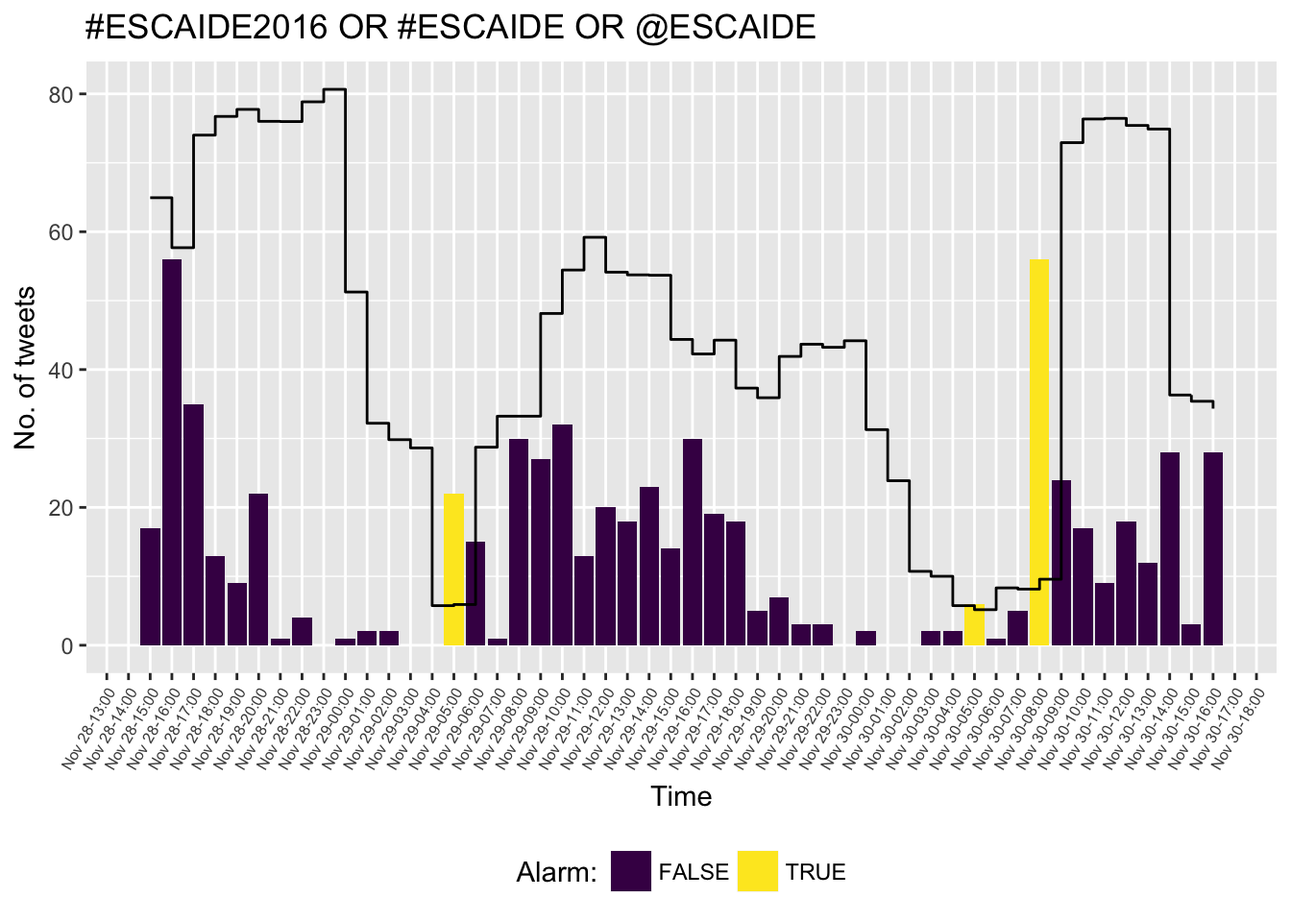
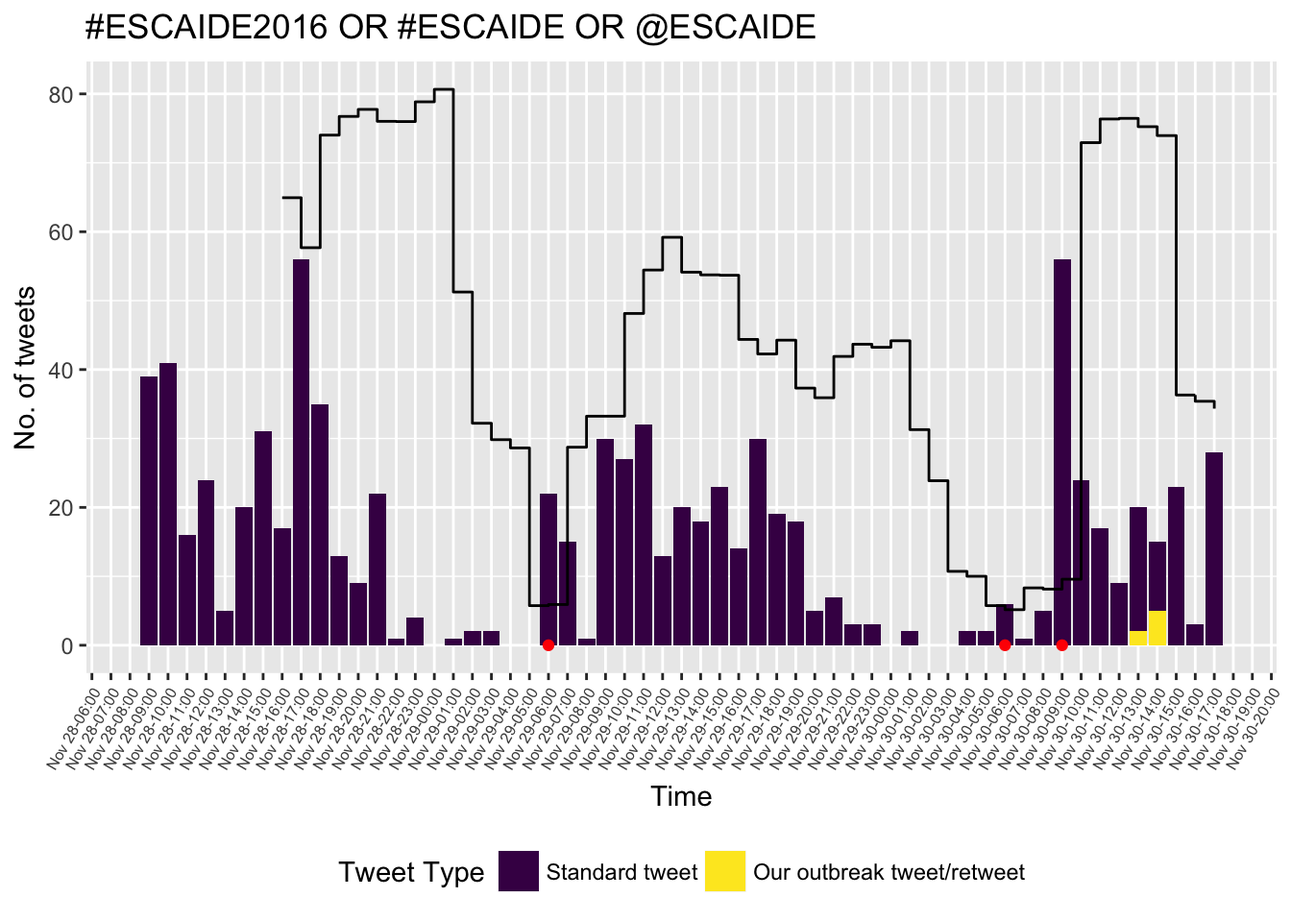
Update docs

Changed region(s): [[0.0312, 0.0625, 1.0, 0.8438], [0.25, 0.9062, 0.8125, 0.9688]]

diff --git a/docs/articles/sts-conversions.html b/docs/articles/sts-conversions.html
@@ -118,8 +118,8 @@ haxts &lt;-<span class="st"> </span><span class="kw">as.xts</span>(ha.sts)
 <p>Up to old <strong>xts</strong> 0.9-7, this will only plot the first time series Newer versions of <strong>xts</strong> are available from the <a href="https://github.com/joshuaulrich/xts"><strong>xts</strong> GitHub repository</a>.</p>
 <p>This also enables the use of the <a href="https://CRAN.R-project.org/package=dygraphs"><strong>dygraphs</strong></a> package for interactive visualization:</p>
 <div class="sourceCode"><pre class="sourceCode r"><code class="sourceCode r">dygraphs::<span class="kw">dygraph</span>(haxts)</code></pre></div>
-<div id="htmlwidget-07394da27a6eb4f22e37" style="width:100%;height:480px;" class="dygraphs html-widget"></div>
-<script type="application/json" data-for="htmlwidget-07394da27a6eb4f22e37">{"x":{"attrs":{"labels":["week","chwi","frkr","lich","mahe","mitt","neuk","pank","rein","span","zehl","scho","trko"],"legend":"auto","retainDateWindow":false,"axes":{"x":{"pixelsPerLabel":60}}},"scale":"weekly","annotations":[],"shadings":[],"events":[],"format":"date","data":[["2001-01-01T00:00:00.000Z","2001-01-08T00:00:00.000Z","2001-01-15T00:00:00.000Z","2001-01-22T00:00:00.000Z","2001-01-29T00:00:00.000Z","2001-02-05T00:00:00.000Z","2001-02-12T00:00:00.000Z","2001-02-19T00:00:00.000Z","2001-02-26T00:00:00.000Z","2001-03-05T00:00:00.000Z","2001-03-12T00:00:00.000Z","2001-03-19T00:00:00.000Z","2001-03-26T00:00:00.000Z","2001-04-02T00:00:00.000Z","2001-04-09T00:00:00.000Z","2001-04-16T00:00:00.000Z","2001-04-23T00:00:00.000Z","2001-04-30T00:00:00.000Z","2001-05-07T00:00:00.000Z","2001-05-14T00:00:00.000Z","2001-05-21T00:00:00.000Z","2001-05-28T00:00:00.000Z","2001-06-04T00:00:00.000Z","2001-06-11T00:00:00.000Z","2001-06-18T00:00:00.000Z","2001-06-25T00:00:00.000Z","2001-07-02T00:00:00.000Z","2001-07-09T00:00:00.000Z","2001-07-16T00:00:00.000Z","2001-07-23T00:00:00.000Z","2001-07-30T00:00:00.000Z","2001-08-06T00:00:00.000Z","2001-08-13T00:00:00.000Z","2001-08-20T00:00:00.000Z","2001-08-27T00:00:00.000Z","2001-09-03T00:00:00.000Z","2001-09-10T00:00:00.000Z","2001-09-17T00:00:00.000Z","2001-09-24T00:00:00.000Z","2001-10-01T00:00:00.000Z","2001-10-08T00:00:00.000Z","2001-10-15T00:00:00.000Z","2001-10-22T00:00:00.000Z","2001-10-29T00:00:00.000Z","2001-11-05T00:00:00.000Z","2001-11-12T00:00:00.000Z","2001-11-19T00:00:00.000Z","2001-11-26T00:00:00.000Z","2001-12-03T00:00:00.000Z","2001-12-10T00:00:00.000Z","2001-12-17T00:00:00.000Z","2001-12-24T00:00:00.000Z","2001-12-31T00:00:00.000Z","2002-01-07T00:00:00.000Z","2002-01-14T00:00:00.000Z","2002-01-21T00:00:00.000Z","2002-01-28T00:00:00.000Z","2002-02-04T00:00:00.000Z","2002-02-11T00:00:00.000Z","2002-02-18T00:00:00.000Z","2002-02-25T00:00:00.000Z","2002-03-04T00:00:00.000Z","2002-03-11T00:00:00.000Z","2002-03-18T00:00:00.000Z","2002-03-25T00:00:00.000Z","2002-04-01T00:00:00.000Z","2002-04-08T00:00:00.000Z","2002-04-15T00:00:00.000Z","2002-04-22T00:00:00.000Z","2002-04-29T00:00:00.000Z","2002-05-06T00:00:00.000Z","2002-05-13T00:00:00.000Z","2002-05-20T00:00:00.000Z","2002-05-27T00:00:00.000Z","2002-06-03T00:00:00.000Z","2002-06-10T00:00:00.000Z","2002-06-17T00:00:00.000Z","2002-06-24T00:00:00.000Z","2002-07-01T00:00:00.000Z","2002-07-08T00:00:00.000Z","2002-07-15T00:00:00.000Z","2002-07-22T00:00:00.000Z","2002-07-29T00:00:00.000Z","2002-08-05T00:00:00.000Z","2002-08-12T00:00:00.000Z","2002-08-19T00:00:00.000Z","2002-08-26T00:00:00.000Z","2002-09-02T00:00:00.000Z","2002-09-09T00:00:00.000Z","2002-09-16T00:00:00.000Z","2002-09-23T00:00:00.000Z","2002-09-30T00:00:00.000Z","2002-10-07T00:00:00.000Z","2002-10-14T00:00:00.000Z","2002-10-21T00:00:00.000Z","2002-10-28T00:00:00.000Z","2002-11-04T00:00:00.000Z","2002-11-11T00:00:00.000Z","2002-11-18T00:00:00.000Z","2002-11-25T00:00:00.000Z","2002-12-02T00:00:00.000Z","2002-12-09T00:00:00.000Z","2002-12-16T00:00:00.000Z","2002-12-23T00:00:00.000Z","2002-12-30T00:00:00.000Z","2003-01-06T00:00:00.000Z","2003-01-13T00:00:00.000Z","2003-01-20T00:00:00.000Z","2003-01-27T00:00:00.000Z","2003-02-03T00:00:00.000Z","2003-02-10T00:00:00.000Z","2003-02-17T00:00:00.000Z","2003-02-24T00:00:00.000Z","2003-03-03T00:00:00.000Z","2003-03-10T00:00:00.000Z","2003-03-17T00:00:00.000Z","2003-03-24T00:00:00.000Z","2003-03-31T00:00:00.000Z","2003-04-07T00:00:00.000Z","2003-04-14T00:00:00.000Z","2003-04-21T00:00:00.000Z","2003-04-28T00:00:00.000Z","2003-05-05T00:00:00.000Z","2003-05-12T00:00:00.000Z","2003-05-19T00:00:00.000Z","2003-05-26T00:00:00.000Z","2003-06-02T00:00:00.000Z","2003-06-09T00:00:00.000Z","2003-06-16T00:00:00.000Z","2003-06-23T00:00:00.000Z","2003-06-30T00:00:00.000Z","2003-07-07T00:00:00.000Z","2003-07-14T00:00:00.000Z","2003-07-21T00:00:00.000Z","2003-07-28T00:00:00.000Z","2003-08-04T00:00:00.000Z","2003-08-11T00:00:00.000Z","2003-08-18T00:00:00.000Z","2003-08-25T00:00:00.000Z","2003-09-01T00:00:00.000Z","2003-09-08T00:00:00.000Z","2003-09-15T00:00:00.000Z","2003-09-22T00:00:00.000Z","2003-09-29T00:00:00.000Z","2003-10-06T00:00:00.000Z","2003-10-13T00:00:00.000Z","2003-10-20T00:00:00.000Z","2003-10-27T00:00:00.000Z","2003-11-03T00:00:00.000Z","2003-11-10T00:00:00.000Z","2003-11-17T00:00:00.000Z","2003-11-24T00:00:00.000Z","2003-12-01T00:00:00.000Z","2003-12-08T00:00:00.000Z","2003-12-15T00:00:00.000Z","2003-12-22T00:00:00.000Z","2003-12-29T00:00:00.000Z","2004-01-05T00:00:00.000Z","2004-01-12T00:00:00.000Z","2004-01-19T00:00:00.000Z","2004-01-26T00:00:00.000Z","2004-02-02T00:00:00.000Z","2004-02-09T00:00:00.000Z","2004-02-16T00:00:00.000Z","2004-02-23T00:00:00.000Z","2004-03-01T00:00:00.000Z","2004-03-08T00:00:00.000Z","2004-03-15T00:00:00.000Z","2004-03-22T00:00:00.000Z","2004-03-29T00:00:00.000Z","2004-04-05T00:00:00.000Z","2004-04-12T00:00:00.000Z","2004-04-19T00:00:00.000Z","2004-04-26T00:00:00.000Z","2004-05-03T00:00:00.000Z","2004-05-10T00:00:00.000Z","2004-05-17T00:00:00.000Z","2004-05-24T00:00:00.000Z","2004-05-31T00:00:00.000Z","2004-06-07T00:00:00.000Z","2004-06-14T00:00:00.000Z","2004-06-21T00:00:00.000Z","2004-06-28T00:00:00.000Z","2004-07-05T00:00:00.000Z","2004-07-12T00:00:00.000Z","2004-07-19T00:00:00.000Z","2004-07-26T00:00:00.000Z","2004-08-02T00:00:00.000Z","2004-08-09T00:00:00.000Z","2004-08-16T00:00:00.000Z","2004-08-23T00:00:00.000Z","2004-08-30T00:00:00.000Z","2004-09-06T00:00:00.000Z","2004-09-13T00:00:00.000Z","2004-09-20T00:00:00.000Z","2004-09-27T00:00:00.000Z","2004-10-04T00:00:00.000Z","2004-10-11T00:00:00.000Z","2004-10-18T00:00:00.000Z","2004-10-25T00:00:00.000Z","2004-11-01T00:00:00.000Z","2004-11-08T00:00:00.000Z","2004-11-15T00:00:00.000Z","2004-11-22T00:00:00.000Z","2004-11-29T00:00:00.000Z","2004-12-06T00:00:00.000Z","2004-12-13T00:00:00.000Z","2004-12-20T00:00:00.000Z","2004-12-27T00:00:00.000Z","2005-01-03T00:00:00.000Z","2005-01-10T00:00:00.000Z","2005-01-17T00:00:00.000Z","2005-01-24T00:00:00.000Z","2005-01-31T00:00:00.000Z","2005-02-07T00:00:00.000Z","2005-02-14T00:00:00.000Z","2005-02-21T00:00:00.000Z","2005-02-28T00:00:00.000Z","2005-03-07T00:00:00.000Z","2005-03-14T00:00:00.000Z","2005-03-21T00:00:00.000Z","2005-03-28T00:00:00.000Z","2005-04-04T00:00:00.000Z","2005-04-11T00:00:00.000Z","2005-04-18T00:00:00.000Z","2005-04-25T00:00:00.000Z","2005-05-02T00:00:00.000Z","2005-05-09T00:00:00.000Z","2005-05-16T00:00:00.000Z","2005-05-23T00:00:00.000Z","2005-05-30T00:00:00.000Z","2005-06-06T00:00:00.000Z","2005-06-13T00:00:00.000Z","2005-06-20T00:00:00.000Z","2005-06-27T00:00:00.000Z","2005-07-04T00:00:00.000Z","2005-07-11T00:00:00.000Z","2005-07-18T00:00:00.000Z","2005-07-25T00:00:00.000Z","2005-08-01T00:00:00.000Z","2005-08-08T00:00:00.000Z","2005-08-15T00:00:00.000Z","2005-08-22T00:00:00.000Z","2005-08-29T00:00:00.000Z","2005-09-05T00:00:00.000Z","2005-09-12T00:00:00.000Z","2005-09-19T00:00:00.000Z","2005-09-26T00:00:00.000Z","2005-10-03T00:00:00.000Z","2005-10-10T00:00:00.000Z","2005-10-17T00:00:00.000Z","2005-10-24T00:00:00.000Z","2005-10-31T00:00:00.000Z","2005-11-07T00:00:00.000Z","2005-11-14T00:00:00.000Z","2005-11-21T00:00:00.000Z","2005-11-28T00:00:00.000Z","2005-12-05T00:00:00.000Z","2005-12-12T00:00:00.000Z","2005-12-19T00:00:00.000Z","2005-12-26T00:00:00.000Z","2006-01-02T00:00:00.000Z","2006-01-09T00:00:00.000Z","2006-01-16T00:00:00.000Z","2006-01-23T00:00:00.000Z","2006-01-30T00:00:00.000Z","2006-02-06T00:00:00.000Z","2006-02-13T00:00:00.000Z","2006-02-20T00:00:00.000Z","2006-02-27T00:00:00.000Z","2006-03-06T00:00:00.000Z","2006-03-13T00:00:00.000Z","2006-03-20T00:00:00.000Z","2006-03-27T00:00:00.000Z","2006-04-03T00:00:00.000Z","2006-04-10T00:00:00.000Z","2006-04-17T00:00:00.000Z","2006-04-24T00:00:00.000Z","2006-05-01T00:00:00.000Z","2006-05-08T00:00:00.000Z","2006-05-15T00:00:00.000Z","2006-05-22T00:00:00.000Z","2006-05-29T00:00:00.000Z","2006-06-05T00:00:00.000Z","2006-06-12T00:00:00.000Z","2006-06-19T00:00:00.000Z","2006-06-26T00:00:00.000Z","2006-07-03T00:00:00.000Z","2006-07-10T00:00:00.000Z","2006-07-17T00:00:00.000Z"],[0,0,0,0,0,0,0,0,0,1,0,1,1,0,1,0,1,0,0,0,0,1,0,0,0,0,0,0,0,0,0,0,1,0,0,0,1,0,0,0,1,0,1,0,0,0,0,0,0,1,1,0,2,0,0,0,1,1,0,0,0,0,0,0,0,0,0,0,0,0,0,0,0,0,0,0,0,0,0,0,1,1,0,0,1,1,0,0,0,0,0,0,0,0,0,0,0,0,0,0,0,0,0,0,0,1,0,0,0,0,0,0,0,0,0,0,1,0,0,0,0,0,0,0,0,0,0,0,0,0,0,0,0,0,0,0,0,0,0,0,0,0,1,0,0,0,0,0,0,0,0,0,0,1,0,0,0,0,0,0,0,0,0,0,0,0,0,0,0,0,0,0,0,0,0,0,0,0,0,0,0,0,0,0,0,0,0,0,1,1,0,0,0,0,0,0,0,1,0,0,0,0,0,0,0,0,0,0,1,0,0,0,1,0,0,0,0,0,0,0,0,0,0,0,0,0,0,0,0,0,1,0,0,0,0,0,0,0,0,0,0,0,0,0,0,0,0,0,0,0,0,0,0,0,1,0,0,0,0,0,0,0,0,0,0,0,0,1,0,0,0,0,0,0,0,0,1,0,1,0,0,0,0,0,0,0,0,0,0,0],[0,0,0,0,0,0,0,0,0,0,0,0,1,1,0,0,0,0,0,1,0,0,0,0,1,0,0,0,0,0,0,0,0,0,0,0,0,0,0,1,0,0,0,0,0,0,0,0,1,0,0,0,0,0,0,1,0,0,0,0,0,0,0,0,0,0,1,0,0,0,0,1,0,0,0,0,0,0,0,0,0,0,0,0,0,0,0,0,0,1,1,1,1,0,0,0,0,0,0,0,0,0,0,0,0,0,0,0,0,0,0,0,0,0,0,0,0,0,0,0,0,0,0,0,1,0,0,0,0,0,0,0,0,1,0,0,0,0,0,0,0,0,0,0,0,0,0,0,1,0,0,0,0,0,0,0,0,0,0,0,0,0,0,1,0,0,0,0,1,0,0,0,0,0,0,0,0,0,0,0,0,0,0,1,0,0,0,0,0,0,0,0,0,0,0,0,0,1,1,0,0,0,0,0,0,0,0,0,0,0,0,0,0,0,0,0,1,0,0,0,0,0,0,0,0,1,0,0,0,0,0,0,0,1,0,0,0,0,0,0,0,0,0,0,0,0,1,0,0,0,0,0,0,0,0,0,0,0,0,0,0,0,0,0,0,0,1,0,0,0,0,0,0,0,0,0,1,0,0,0,0,0,0,0,0,1,1,0,0,0],[0,0,0,0,0,0,0,0,0,0,0,0,0,0,1,0,0,0,0,0,0,0,0,0,0,0,0,0,0,0,0,0,0,0,0,0,0,0,0,0,0,0,0,0,0,0,0,0,0,0,0,0,0,0,0,0,0,0,0,0,0,0,0,0,0,0,0,0,0,0,0,0,0,0,0,0,0,0,0,0,0,0,0,0,0,0,0,0,0,0,0,0,0,0,0,0,0,0,0,0,0,0,0,0,0,0,0,0,0,0,0,0,0,0,0,0,0,0,0,1,0,0,0,0,0,0,0,0,0,0,0,0,0,0,0,0,0,0,0,0,0,0,0,1,0,0,0,0,0,0,0,0,0,0,0,0,0,0,0,0,0,0,0,0,0,0,1,0,0,0,0,0,0,0,0,0,0,0,0,0,0,0,0,0,0,0,0,0,0,0,0,0,0,0,0,0,0,0,0,0,0,0,0,0,0,0,0,0,0,0,0,0,0,0,0,0,0,0,0,0,0,0,0,0,0,0,0,0,0,0,0,0,0,0,0,0,0,0,0,0,0,0,0,0,0,0,0,0,0,0,0,0,0,0,0,0,0,0,0,0,0,0,0,0,0,0,0,0,0,1,0,0,0,0,0,0,0,0,1,2,0,0,0,0,0,1,0,0,0,0],[0,0,0,0,0,0,0,0,0,0,0,0,0,0,0,0,0,0,0,0,0,0,0,0,0,0,0,0,0,0,0,0,1,0,0,0,0,0,0,0,0,0,0,0,0,0,0,0,0,0,0,0,0,0,0,0,0,0,0,0,0,0,0,0,0,0,0,0,0,0,0,0,0,0,0,0,0,0,0,0,0,0,0,0,0,0,0,0,0,0,0,0,0,0,0,0,1,0,0,0,0,0,0,0,0,0,0,0,1,0,0,0,0,0,0,0,0,0,0,0,1,0,0,0,0,0,0,0,0,0,0,0,0,0,0,0,0,0,0,0,0,0,0,0,0,0,0,0,0,0,0,0,0,0,0,0,0,0,0,0,0,0,0,0,0,0,0,0,0,0,0,0,0,0,0,0,0,0,0,0,0,0,0,0,0,0,0,0,0,1,0,0,0,0,0,0,0,0,0,0,0,0,0,0,0,0,0,0,0,0,0,0,0,0,0,0,0,0,0,0,0,0,0,0,0,0,0,0,0,0,0,0,0,0,0,0,0,0,0,0,0,0,0,0,0,0,0,0,0,0,0,0,0,0,0,0,0,0,0,0,0,0,0,0,0,0,0,0,0,0,0,0,0,0,0,0,0,0,0,0,0,0,0,0,0,0,0,1,0,0],[0,0,0,0,0,0,2,0,1,1,1,0,0,0,0,0,0,0,2,0,0,1,0,0,0,1,1,0,0,0,0,1,0,0,0,0,0,0,2,0,0,0,0,0,0,0,0,0,0,0,0,0,0,0,0,0,1,0,0,0,0,0,0,0,0,0,0,0,1,0,0,0,0,0,0,0,0,0,0,0,0,0,0,0,0,0,0,0,0,0,1,0,1,0,0,0,0,0,0,0,0,0,1,0,0,0,0,0,0,0,0,0,0,0,0,0,0,0,0,0,0,0,0,0,0,0,0,0,0,0,0,0,0,1,0,0,0,0,0,0,0,1,0,0,0,1,0,0,0,0,0,0,0,0,0,1,0,0,1,0,2,0,0,0,0,0,0,1,0,0,0,0,0,1,0,0,0,0,1,0,1,0,0,0,0,0,0,0,0,1,0,0,1,0,0,0,0,0,0,1,0,0,1,0,0,0,0,0,1,0,0,0,0,0,0,0,0,0,0,0,0,0,0,0,0,0,0,0,0,0,0,0,0,0,0,0,0,0,0,0,0,0,0,0,0,0,0,0,0,0,0,0,0,0,0,0,0,0,0,0,0,0,0,0,0,0,0,0,0,0,0,0,0,0,0,0,0,0,0,0,0,1,0,0,0,1,3,0,0,0],[0,0,1,0,0,1,1,0,0,0,0,0,0,1,0,0,0,0,0,1,0,1,0,0,0,0,1,0,0,0,0,0,0,0,0,0,0,0,0,0,0,0,0,0,1,0,0,0,0,0,0,0,0,0,0,0,0,0,0,0,0,0,0,0,0,0,0,0,0,0,0,0,0,0,0,0,0,0,0,0,0,0,0,0,1,0,0,0,0,0,0,0,0,0,0,0,0,0,0,0,0,0,0,0,0,0,0,0,0,0,0,0,0,0,0,0,0,0,0,0,2,0,0,0,0,0,0,0,0,0,0,0,0,0,0,0,0,0,0,0,0,0,0,0,0,0,0,0,0,0,0,0,0,0,0,0,0,0,1,0,0,0,0,0,0,0,2,0,0,1,0,0,0,0,0,0,0,0,1,0,0,0,0,0,0,0,0,0,0,0,0,0,0,0,0,0,0,0,0,0,0,0,0,1,0,0,0,0,0,0,0,0,0,0,0,0,0,0,0,0,0,0,0,0,0,0,0,0,1,0,0,0,0,0,0,0,0,0,0,0,0,0,0,0,0,0,0,0,0,0,0,0,0,0,0,0,0,0,0,1,0,0,0,0,0,0,0,0,0,0,0,0,1,0,0,0,0,0,0,0,0,0,1,0,0,1,0,0,1,1],[0,0,0,0,0,1,0,0,0,0,0,1,0,1,0,2,0,1,0,0,0,0,0,0,2,0,0,0,1,0,0,1,1,0,1,0,0,0,0,0,0,0,1,0,0,0,0,0,0,0,0,0,0,0,0,0,0,0,0,0,0,0,0,0,0,0,0,0,0,0,0,0,0,0,0,0,0,2,0,0,0,0,0,0,0,0,0,0,0,0,1,0,0,0,0,0,1,0,1,0,0,0,0,0,0,0,0,0,0,0,0,1,0,0,0,0,0,0,0,0,0,0,0,0,0,0,0,0,0,0,0,0,0,0,0,0,0,0,0,0,1,0,0,1,0,0,0,0,1,0,0,0,1,1,1,0,1,1,0,0,0,0,0,0,1,2,0,0,0,0,0,0,0,0,0,0,0,0,0,0,0,1,0,0,0,0,0,0,0,0,0,0,0,0,0,0,0,0,1,1,0,0,0,0,0,0,0,0,0,1,0,0,0,0,0,0,0,0,0,0,0,0,0,0,0,0,0,0,1,0,0,0,1,0,0,0,0,0,0,0,0,0,0,0,0,0,0,0,0,0,0,0,1,0,0,0,0,0,0,0,0,0,0,0,0,0,0,0,0,0,0,0,0,0,0,0,0,0,0,0,1,1,0,1,0,2,1,3,0,0],[0,0,0,0,2,1,0,0,0,0,0,0,0,0,0,0,0,1,0,0,0,1,0,0,0,0,0,0,0,0,1,0,0,0,0,0,0,0,0,0,0,0,0,0,0,0,0,0,0,0,0,0,1,0,0,0,0,0,0,0,0,0,0,0,0,0,0,0,0,0,0,0,0,0,0,0,0,0,0,0,0,0,0,0,0,0,0,0,0,0,0,0,0,0,0,0,0,0,0,0,0,0,0,0,0,0,0,0,0,0,0,0,0,0,0,1,0,0,0,0,0,0,0,0,0,0,0,0,0,0,0,0,0,0,0,0,0,0,0,1,0,0,0,0,1,0,0,0,0,0,0,0,0,0,0,0,0,0,0,0,0,0,0,0,0,0,0,0,0,0,0,0,0,0,0,0,0,0,0,0,0,0,0,1,0,0,0,0,0,0,0,0,0,0,0,1,0,0,0,0,0,0,0,0,0,0,0,0,0,2,0,0,0,0,0,0,0,0,0,0,0,0,0,0,0,0,0,0,0,0,0,0,0,0,0,0,0,0,0,0,0,0,0,0,0,0,0,0,0,0,1,0,0,0,0,0,0,0,0,0,0,0,0,1,0,0,0,0,0,0,0,0,0,0,0,0,1,0,0,0,0,1,0,1,0,0,0,0,0,0],[0,0,0,0,0,0,0,0,0,0,0,0,0,0,0,0,0,0,0,0,0,0,0,0,0,0,0,0,0,0,0,0,0,0,0,0,0,0,0,0,0,0,0,0,0,0,0,1,0,0,0,0,0,0,0,0,0,0,1,0,0,0,0,0,0,0,0,0,0,0,0,0,0,0,1,0,0,0,0,0,0,0,0,0,0,0,0,0,0,0,1,0,0,0,0,0,0,0,0,0,0,0,0,0,0,0,0,0,0,0,0,0,0,0,0,0,0,0,0,1,0,0,0,1,0,0,0,0,0,0,0,0,0,0,0,0,0,0,0,0,0,0,0,0,0,0,0,0,0,0,0,0,0,0,0,0,0,0,0,0,0,0,0,0,0,0,0,0,0,0,0,0,0,0,0,0,0,0,0,0,0,0,0,0,0,0,0,0,0,0,0,0,0,0,0,1,0,0,0,1,0,0,1,1,0,0,0,0,0,0,1,0,0,0,0,0,0,0,0,0,0,0,0,0,0,0,0,1,0,0,0,0,0,0,0,0,0,0,0,0,0,0,0,0,0,0,0,0,0,0,0,0,0,0,0,0,0,0,0,0,0,0,0,0,0,0,0,0,0,0,0,0,0,0,0,0,0,0,0,0,0,0,0,0,0,0,0,0,0,0],[0,0,0,0,0,0,0,0,0,0,0,0,0,0,0,0,0,1,0,0,0,0,1,0,0,0,0,0,0,0,0,1,0,0,0,0,0,0,2,0,0,0,0,0,0,0,0,0,0,0,0,0,0,0,0,0,0,0,0,0,0,0,0,0,0,0,0,0,0,0,0,0,0,0,0,0,0,0,0,0,0,2,0,0,0,1,0,1,0,0,0,0,0,1,0,0,0,0,0,0,0,0,0,0,0,0,0,0,1,0,0,0,1,0,1,0,0,0,0,0,0,0,0,0,0,0,0,0,1,0,0,0,0,0,0,0,0,0,0,0,0,0,0,0,0,1,0,0,0,0,0,0,0,0,0,0,0,0,0,1,0,0,0,0,0,0,0,0,0,0,0,0,0,0,0,0,0,0,0,0,0,0,0,0,0,0,0,0,0,0,0,0,0,0,0,0,0,0,0,0,0,1,0,0,0,0,0,0,0,0,0,0,0,0,0,0,0,0,0,0,0,0,0,0,0,0,0,0,0,0,0,0,0,0,0,0,0,0,0,0,0,0,0,0,0,0,0,0,0,0,0,0,0,0,0,0,0,0,0,0,0,0,0,0,0,0,0,0,0,0,1,0,0,0,0,0,0,0,0,0,0,0,0,1,0,0,0,0,0,0],[0,0,0,0,0,0,0,0,0,0,1,1,0,0,0,2,0,2,0,1,0,0,0,1,1,1,1,0,0,0,0,0,0,1,1,0,0,1,0,0,0,0,1,1,1,0,0,0,0,0,1,0,0,0,0,0,1,0,0,0,0,0,0,0,0,0,0,0,0,1,0,0,0,0,0,0,0,0,0,0,0,1,0,0,0,0,0,0,0,0,0,0,0,0,1,0,0,0,0,0,1,0,0,0,1,0,0,0,0,0,0,0,0,0,0,0,0,0,0,0,0,0,0,1,0,0,0,0,0,0,0,0,0,1,0,0,0,0,0,0,0,0,0,0,0,0,1,0,0,2,1,0,0,0,0,0,0,0,0,0,0,0,0,0,0,0,0,0,0,0,0,0,0,0,0,0,0,0,0,0,0,0,1,0,0,0,1,0,0,0,0,0,0,0,1,1,0,0,0,0,0,1,0,0,0,0,1,1,0,0,0,0,0,1,0,0,1,0,0,0,0,0,1,0,0,0,0,0,0,0,0,0,0,0,0,0,0,0,0,0,0,0,0,0,0,0,0,0,0,0,0,1,0,0,0,0,0,0,0,0,0,0,0,0,0,0,0,0,0,0,0,1,1,0,1,1,0,1,1,1,0,0,0,0,1,0,0,0,1,0],[0,0,0,0,0,0,0,0,0,0,0,0,0,0,0,0,0,0,0,0,0,0,0,0,0,0,0,0,0,0,0,0,0,0,0,0,0,0,0,0,0,0,0,0,0,0,0,0,1,0,0,0,0,0,0,0,0,0,0,0,0,0,0,0,0,0,0,0,0,0,0,0,0,0,0,0,0,0,0,0,0,0,0,0,0,0,0,0,0,0,0,0,0,0,0,0,0,0,0,0,0,0,0,0,0,0,0,0,0,0,0,0,0,0,0,0,0,0,0,0,0,0,0,0,0,0,0,0,0,0,0,0,0,0,0,0,0,0,0,0,0,0,0,0,0,0,0,0,0,0,0,0,0,0,0,0,0,0,0,0,0,0,0,0,0,0,0,0,0,0,0,0,0,0,0,0,0,0,0,0,0,0,0,1,0,0,0,0,0,0,0,0,0,0,0,0,0,0,0,0,0,0,0,0,0,0,0,0,0,0,0,0,0,0,0,0,0,0,0,0,0,0,0,0,0,1,0,0,0,1,0,0,0,0,0,0,0,0,0,0,0,0,0,0,0,0,0,1,0,0,0,0,0,0,0,0,0,0,0,0,0,0,0,0,0,0,0,0,0,0,0,0,0,0,0,0,0,1,0,0,0,0,0,0,0,0,0,0,0,1]]},"evals":[],"jsHooks":[]}</script></div>
+<div id="htmlwidget-b5df02e3ff805bc695a2" style="width:100%;height:480px;" class="dygraphs html-widget"></div>
+<script type="application/json" data-for="htmlwidget-b5df02e3ff805bc695a2">{"x":{"attrs":{"labels":["week","chwi","frkr","lich","mahe","mitt","neuk","pank","rein","span","zehl","scho","trko"],"legend":"auto","retainDateWindow":false,"axes":{"x":{"pixelsPerLabel":60}}},"scale":"weekly","annotations":[],"shadings":[],"events":[],"format":"date","data":[["2001-01-01T00:00:00.000Z","2001-01-08T00:00:00.000Z","2001-01-15T00:00:00.000Z","2001-01-22T00:00:00.000Z","2001-01-29T00:00:00.000Z","2001-02-05T00:00:00.000Z","2001-02-12T00:00:00.000Z","2001-02-19T00:00:00.000Z","2001-02-26T00:00:00.000Z","2001-03-05T00:00:00.000Z","2001-03-12T00:00:00.000Z","2001-03-19T00:00:00.000Z","2001-03-26T00:00:00.000Z","2001-04-02T00:00:00.000Z","2001-04-09T00:00:00.000Z","2001-04-16T00:00:00.000Z","2001-04-23T00:00:00.000Z","2001-04-30T00:00:00.000Z","2001-05-07T00:00:00.000Z","2001-05-14T00:00:00.000Z","2001-05-21T00:00:00.000Z","2001-05-28T00:00:00.000Z","2001-06-04T00:00:00.000Z","2001-06-11T00:00:00.000Z","2001-06-18T00:00:00.000Z","2001-06-25T00:00:00.000Z","2001-07-02T00:00:00.000Z","2001-07-09T00:00:00.000Z","2001-07-16T00:00:00.000Z","2001-07-23T00:00:00.000Z","2001-07-30T00:00:00.000Z","2001-08-06T00:00:00.000Z","2001-08-13T00:00:00.000Z","2001-08-20T00:00:00.000Z","2001-08-27T00:00:00.000Z","2001-09-03T00:00:00.000Z","2001-09-10T00:00:00.000Z","2001-09-17T00:00:00.000Z","2001-09-24T00:00:00.000Z","2001-10-01T00:00:00.000Z","2001-10-08T00:00:00.000Z","2001-10-15T00:00:00.000Z","2001-10-22T00:00:00.000Z","2001-10-29T00:00:00.000Z","2001-11-05T00:00:00.000Z","2001-11-12T00:00:00.000Z","2001-11-19T00:00:00.000Z","2001-11-26T00:00:00.000Z","2001-12-03T00:00:00.000Z","2001-12-10T00:00:00.000Z","2001-12-17T00:00:00.000Z","2001-12-24T00:00:00.000Z","2001-12-31T00:00:00.000Z","2002-01-07T00:00:00.000Z","2002-01-14T00:00:00.000Z","2002-01-21T00:00:00.000Z","2002-01-28T00:00:00.000Z","2002-02-04T00:00:00.000Z","2002-02-11T00:00:00.000Z","2002-02-18T00:00:00.000Z","2002-02-25T00:00:00.000Z","2002-03-04T00:00:00.000Z","2002-03-11T00:00:00.000Z","2002-03-18T00:00:00.000Z","2002-03-25T00:00:00.000Z","2002-04-01T00:00:00.000Z","2002-04-08T00:00:00.000Z","2002-04-15T00:00:00.000Z","2002-04-22T00:00:00.000Z","2002-04-29T00:00:00.000Z","2002-05-06T00:00:00.000Z","2002-05-13T00:00:00.000Z","2002-05-20T00:00:00.000Z","2002-05-27T00:00:00.000Z","2002-06-03T00:00:00.000Z","2002-06-10T00:00:00.000Z","2002-06-17T00:00:00.000Z","2002-06-24T00:00:00.000Z","2002-07-01T00:00:00.000Z","2002-07-08T00:00:00.000Z","2002-07-15T00:00:00.000Z","2002-07-22T00:00:00.000Z","2002-07-29T00:00:00.000Z","2002-08-05T00:00:00.000Z","2002-08-12T00:00:00.000Z","2002-08-19T00:00:00.000Z","2002-08-26T00:00:00.000Z","2002-09-02T00:00:00.000Z","2002-09-09T00:00:00.000Z","2002-09-16T00:00:00.000Z","2002-09-23T00:00:00.000Z","2002-09-30T00:00:00.000Z","2002-10-07T00:00:00.000Z","2002-10-14T00:00:00.000Z","2002-10-21T00:00:00.000Z","2002-10-28T00:00:00.000Z","2002-11-04T00:00:00.000Z","2002-11-11T00:00:00.000Z","2002-11-18T00:00:00.000Z","2002-11-25T00:00:00.000Z","2002-12-02T00:00:00.000Z","2002-12-09T00:00:00.000Z","2002-12-16T00:00:00.000Z","2002-12-23T00:00:00.000Z","2002-12-30T00:00:00.000Z","2003-01-06T00:00:00.000Z","2003-01-13T00:00:00.000Z","2003-01-20T00:00:00.000Z","2003-01-27T00:00:00.000Z","2003-02-03T00:00:00.000Z","2003-02-10T00:00:00.000Z","2003-02-17T00:00:00.000Z","2003-02-24T00:00:00.000Z","2003-03-03T00:00:00.000Z","2003-03-10T00:00:00.000Z","2003-03-17T00:00:00.000Z","2003-03-24T00:00:00.000Z","2003-03-31T00:00:00.000Z","2003-04-07T00:00:00.000Z","2003-04-14T00:00:00.000Z","2003-04-21T00:00:00.000Z","2003-04-28T00:00:00.000Z","2003-05-05T00:00:00.000Z","2003-05-12T00:00:00.000Z","2003-05-19T00:00:00.000Z","2003-05-26T00:00:00.000Z","2003-06-02T00:00:00.000Z","2003-06-09T00:00:00.000Z","2003-06-16T00:00:00.000Z","2003-06-23T00:00:00.000Z","2003-06-30T00:00:00.000Z","2003-07-07T00:00:00.000Z","2003-07-14T00:00:00.000Z","2003-07-21T00:00:00.000Z","2003-07-28T00:00:00.000Z","2003-08-04T00:00:00.000Z","2003-08-11T00:00:00.000Z","2003-08-18T00:00:00.000Z","2003-08-25T00:00:00.000Z","2003-09-01T00:00:00.000Z","2003-09-08T00:00:00.000Z","2003-09-15T00:00:00.000Z","2003-09-22T00:00:00.000Z","2003-09-29T00:00:00.000Z","2003-10-06T00:00:00.000Z","2003-10-13T00:00:00.000Z","2003-10-20T00:00:00.000Z","2003-10-27T00:00:00.000Z","2003-11-03T00:00:00.000Z","2003-11-10T00:00:00.000Z","2003-11-17T00:00:00.000Z","2003-11-24T00:00:00.000Z","2003-12-01T00:00:00.000Z","2003-12-08T00:00:00.000Z","2003-12-15T00:00:00.000Z","2003-12-22T00:00:00.000Z","2003-12-29T00:00:00.000Z","2004-01-05T00:00:00.000Z","2004-01-12T00:00:00.000Z","2004-01-19T00:00:00.000Z","2004-01-26T00:00:00.000Z","2004-02-02T00:00:00.000Z","2004-02-09T00:00:00.000Z","2004-02-16T00:00:00.000Z","2004-02-23T00:00:00.000Z","2004-03-01T00:00:00.000Z","2004-03-08T00:00:00.000Z","2004-03-15T00:00:00.000Z","2004-03-22T00:00:00.000Z","2004-03-29T00:00:00.000Z","2004-04-05T00:00:00.000Z","2004-04-12T00:00:00.000Z","2004-04-19T00:00:00.000Z","2004-04-26T00:00:00.000Z","2004-05-03T00:00:00.000Z","2004-05-10T00:00:00.000Z","2004-05-17T00:00:00.000Z","2004-05-24T00:00:00.000Z","2004-05-31T00:00:00.000Z","2004-06-07T00:00:00.000Z","2004-06-14T00:00:00.000Z","2004-06-21T00:00:00.000Z","2004-06-28T00:00:00.000Z","2004-07-05T00:00:00.000Z","2004-07-12T00:00:00.000Z","2004-07-19T00:00:00.000Z","2004-07-26T00:00:00.000Z","2004-08-02T00:00:00.000Z","2004-08-09T00:00:00.000Z","2004-08-16T00:00:00.000Z","2004-08-23T00:00:00.000Z","2004-08-30T00:00:00.000Z","2004-09-06T00:00:00.000Z","2004-09-13T00:00:00.000Z","2004-09-20T00:00:00.000Z","2004-09-27T00:00:00.000Z","2004-10-04T00:00:00.000Z","2004-10-11T00:00:00.000Z","2004-10-18T00:00:00.000Z","2004-10-25T00:00:00.000Z","2004-11-01T00:00:00.000Z","2004-11-08T00:00:00.000Z","2004-11-15T00:00:00.000Z","2004-11-22T00:00:00.000Z","2004-11-29T00:00:00.000Z","2004-12-06T00:00:00.000Z","2004-12-13T00:00:00.000Z","2004-12-20T00:00:00.000Z","2004-12-27T00:00:00.000Z","2005-01-03T00:00:00.000Z","2005-01-10T00:00:00.000Z","2005-01-17T00:00:00.000Z","2005-01-24T00:00:00.000Z","2005-01-31T00:00:00.000Z","2005-02-07T00:00:00.000Z","2005-02-14T00:00:00.000Z","2005-02-21T00:00:00.000Z","2005-02-28T00:00:00.000Z","2005-03-07T00:00:00.000Z","2005-03-14T00:00:00.000Z","2005-03-21T00:00:00.000Z","2005-03-28T00:00:00.000Z","2005-04-04T00:00:00.000Z","2005-04-11T00:00:00.000Z","2005-04-18T00:00:00.000Z","2005-04-25T00:00:00.000Z","2005-05-02T00:00:00.000Z","2005-05-09T00:00:00.000Z","2005-05-16T00:00:00.000Z","2005-05-23T00:00:00.000Z","2005-05-30T00:00:00.000Z","2005-06-06T00:00:00.000Z","2005-06-13T00:00:00.000Z","2005-06-20T00:00:00.000Z","2005-06-27T00:00:00.000Z","2005-07-04T00:00:00.000Z","2005-07-11T00:00:00.000Z","2005-07-18T00:00:00.000Z","2005-07-25T00:00:00.000Z","2005-08-01T00:00:00.000Z","2005-08-08T00:00:00.000Z","2005-08-15T00:00:00.000Z","2005-08-22T00:00:00.000Z","2005-08-29T00:00:00.000Z","2005-09-05T00:00:00.000Z","2005-09-12T00:00:00.000Z","2005-09-19T00:00:00.000Z","2005-09-26T00:00:00.000Z","2005-10-03T00:00:00.000Z","2005-10-10T00:00:00.000Z","2005-10-17T00:00:00.000Z","2005-10-24T00:00:00.000Z","2005-10-31T00:00:00.000Z","2005-11-07T00:00:00.000Z","2005-11-14T00:00:00.000Z","2005-11-21T00:00:00.000Z","2005-11-28T00:00:00.000Z","2005-12-05T00:00:00.000Z","2005-12-12T00:00:00.000Z","2005-12-19T00:00:00.000Z","2005-12-26T00:00:00.000Z","2006-01-02T00:00:00.000Z","2006-01-09T00:00:00.000Z","2006-01-16T00:00:00.000Z","2006-01-23T00:00:00.000Z","2006-01-30T00:00:00.000Z","2006-02-06T00:00:00.000Z","2006-02-13T00:00:00.000Z","2006-02-20T00:00:00.000Z","2006-02-27T00:00:00.000Z","2006-03-06T00:00:00.000Z","2006-03-13T00:00:00.000Z","2006-03-20T00:00:00.000Z","2006-03-27T00:00:00.000Z","2006-04-03T00:00:00.000Z","2006-04-10T00:00:00.000Z","2006-04-17T00:00:00.000Z","2006-04-24T00:00:00.000Z","2006-05-01T00:00:00.000Z","2006-05-08T00:00:00.000Z","2006-05-15T00:00:00.000Z","2006-05-22T00:00:00.000Z","2006-05-29T00:00:00.000Z","2006-06-05T00:00:00.000Z","2006-06-12T00:00:00.000Z","2006-06-19T00:00:00.000Z","2006-06-26T00:00:00.000Z","2006-07-03T00:00:00.000Z","2006-07-10T00:00:00.000Z","2006-07-17T00:00:00.000Z"],[0,0,0,0,0,0,0,0,0,1,0,1,1,0,1,0,1,0,0,0,0,1,0,0,0,0,0,0,0,0,0,0,1,0,0,0,1,0,0,0,1,0,1,0,0,0,0,0,0,1,1,0,2,0,0,0,1,1,0,0,0,0,0,0,0,0,0,0,0,0,0,0,0,0,0,0,0,0,0,0,1,1,0,0,1,1,0,0,0,0,0,0,0,0,0,0,0,0,0,0,0,0,0,0,0,1,0,0,0,0,0,0,0,0,0,0,1,0,0,0,0,0,0,0,0,0,0,0,0,0,0,0,0,0,0,0,0,0,0,0,0,0,1,0,0,0,0,0,0,0,0,0,0,1,0,0,0,0,0,0,0,0,0,0,0,0,0,0,0,0,0,0,0,0,0,0,0,0,0,0,0,0,0,0,0,0,0,0,1,1,0,0,0,0,0,0,0,1,0,0,0,0,0,0,0,0,0,0,1,0,0,0,1,0,0,0,0,0,0,0,0,0,0,0,0,0,0,0,0,0,1,0,0,0,0,0,0,0,0,0,0,0,0,0,0,0,0,0,0,0,0,0,0,0,1,0,0,0,0,0,0,0,0,0,0,0,0,1,0,0,0,0,0,0,0,0,1,0,1,0,0,0,0,0,0,0,0,0,0,0],[0,0,0,0,0,0,0,0,0,0,0,0,1,1,0,0,0,0,0,1,0,0,0,0,1,0,0,0,0,0,0,0,0,0,0,0,0,0,0,1,0,0,0,0,0,0,0,0,1,0,0,0,0,0,0,1,0,0,0,0,0,0,0,0,0,0,1,0,0,0,0,1,0,0,0,0,0,0,0,0,0,0,0,0,0,0,0,0,0,1,1,1,1,0,0,0,0,0,0,0,0,0,0,0,0,0,0,0,0,0,0,0,0,0,0,0,0,0,0,0,0,0,0,0,1,0,0,0,0,0,0,0,0,1,0,0,0,0,0,0,0,0,0,0,0,0,0,0,1,0,0,0,0,0,0,0,0,0,0,0,0,0,0,1,0,0,0,0,1,0,0,0,0,0,0,0,0,0,0,0,0,0,0,1,0,0,0,0,0,0,0,0,0,0,0,0,0,1,1,0,0,0,0,0,0,0,0,0,0,0,0,0,0,0,0,0,1,0,0,0,0,0,0,0,0,1,0,0,0,0,0,0,0,1,0,0,0,0,0,0,0,0,0,0,0,0,1,0,0,0,0,0,0,0,0,0,0,0,0,0,0,0,0,0,0,0,1,0,0,0,0,0,0,0,0,0,1,0,0,0,0,0,0,0,0,1,1,0,0,0],[0,0,0,0,0,0,0,0,0,0,0,0,0,0,1,0,0,0,0,0,0,0,0,0,0,0,0,0,0,0,0,0,0,0,0,0,0,0,0,0,0,0,0,0,0,0,0,0,0,0,0,0,0,0,0,0,0,0,0,0,0,0,0,0,0,0,0,0,0,0,0,0,0,0,0,0,0,0,0,0,0,0,0,0,0,0,0,0,0,0,0,0,0,0,0,0,0,0,0,0,0,0,0,0,0,0,0,0,0,0,0,0,0,0,0,0,0,0,0,1,0,0,0,0,0,0,0,0,0,0,0,0,0,0,0,0,0,0,0,0,0,0,0,1,0,0,0,0,0,0,0,0,0,0,0,0,0,0,0,0,0,0,0,0,0,0,1,0,0,0,0,0,0,0,0,0,0,0,0,0,0,0,0,0,0,0,0,0,0,0,0,0,0,0,0,0,0,0,0,0,0,0,0,0,0,0,0,0,0,0,0,0,0,0,0,0,0,0,0,0,0,0,0,0,0,0,0,0,0,0,0,0,0,0,0,0,0,0,0,0,0,0,0,0,0,0,0,0,0,0,0,0,0,0,0,0,0,0,0,0,0,0,0,0,0,0,0,0,0,1,0,0,0,0,0,0,0,0,1,2,0,0,0,0,0,1,0,0,0,0],[0,0,0,0,0,0,0,0,0,0,0,0,0,0,0,0,0,0,0,0,0,0,0,0,0,0,0,0,0,0,0,0,1,0,0,0,0,0,0,0,0,0,0,0,0,0,0,0,0,0,0,0,0,0,0,0,0,0,0,0,0,0,0,0,0,0,0,0,0,0,0,0,0,0,0,0,0,0,0,0,0,0,0,0,0,0,0,0,0,0,0,0,0,0,0,0,1,0,0,0,0,0,0,0,0,0,0,0,1,0,0,0,0,0,0,0,0,0,0,0,1,0,0,0,0,0,0,0,0,0,0,0,0,0,0,0,0,0,0,0,0,0,0,0,0,0,0,0,0,0,0,0,0,0,0,0,0,0,0,0,0,0,0,0,0,0,0,0,0,0,0,0,0,0,0,0,0,0,0,0,0,0,0,0,0,0,0,0,0,1,0,0,0,0,0,0,0,0,0,0,0,0,0,0,0,0,0,0,0,0,0,0,0,0,0,0,0,0,0,0,0,0,0,0,0,0,0,0,0,0,0,0,0,0,0,0,0,0,0,0,0,0,0,0,0,0,0,0,0,0,0,0,0,0,0,0,0,0,0,0,0,0,0,0,0,0,0,0,0,0,0,0,0,0,0,0,0,0,0,0,0,0,0,0,0,0,0,1,0,0],[0,0,0,0,0,0,2,0,1,1,1,0,0,0,0,0,0,0,2,0,0,1,0,0,0,1,1,0,0,0,0,1,0,0,0,0,0,0,2,0,0,0,0,0,0,0,0,0,0,0,0,0,0,0,0,0,1,0,0,0,0,0,0,0,0,0,0,0,1,0,0,0,0,0,0,0,0,0,0,0,0,0,0,0,0,0,0,0,0,0,1,0,1,0,0,0,0,0,0,0,0,0,1,0,0,0,0,0,0,0,0,0,0,0,0,0,0,0,0,0,0,0,0,0,0,0,0,0,0,0,0,0,0,1,0,0,0,0,0,0,0,1,0,0,0,1,0,0,0,0,0,0,0,0,0,1,0,0,1,0,2,0,0,0,0,0,0,1,0,0,0,0,0,1,0,0,0,0,1,0,1,0,0,0,0,0,0,0,0,1,0,0,1,0,0,0,0,0,0,1,0,0,1,0,0,0,0,0,1,0,0,0,0,0,0,0,0,0,0,0,0,0,0,0,0,0,0,0,0,0,0,0,0,0,0,0,0,0,0,0,0,0,0,0,0,0,0,0,0,0,0,0,0,0,0,0,0,0,0,0,0,0,0,0,0,0,0,0,0,0,0,0,0,0,0,0,0,0,0,0,0,1,0,0,0,1,3,0,0,0],[0,0,1,0,0,1,1,0,0,0,0,0,0,1,0,0,0,0,0,1,0,1,0,0,0,0,1,0,0,0,0,0,0,0,0,0,0,0,0,0,0,0,0,0,1,0,0,0,0,0,0,0,0,0,0,0,0,0,0,0,0,0,0,0,0,0,0,0,0,0,0,0,0,0,0,0,0,0,0,0,0,0,0,0,1,0,0,0,0,0,0,0,0,0,0,0,0,0,0,0,0,0,0,0,0,0,0,0,0,0,0,0,0,0,0,0,0,0,0,0,2,0,0,0,0,0,0,0,0,0,0,0,0,0,0,0,0,0,0,0,0,0,0,0,0,0,0,0,0,0,0,0,0,0,0,0,0,0,1,0,0,0,0,0,0,0,2,0,0,1,0,0,0,0,0,0,0,0,1,0,0,0,0,0,0,0,0,0,0,0,0,0,0,0,0,0,0,0,0,0,0,0,0,1,0,0,0,0,0,0,0,0,0,0,0,0,0,0,0,0,0,0,0,0,0,0,0,0,1,0,0,0,0,0,0,0,0,0,0,0,0,0,0,0,0,0,0,0,0,0,0,0,0,0,0,0,0,0,0,1,0,0,0,0,0,0,0,0,0,0,0,0,1,0,0,0,0,0,0,0,0,0,1,0,0,1,0,0,1,1],[0,0,0,0,0,1,0,0,0,0,0,1,0,1,0,2,0,1,0,0,0,0,0,0,2,0,0,0,1,0,0,1,1,0,1,0,0,0,0,0,0,0,1,0,0,0,0,0,0,0,0,0,0,0,0,0,0,0,0,0,0,0,0,0,0,0,0,0,0,0,0,0,0,0,0,0,0,2,0,0,0,0,0,0,0,0,0,0,0,0,1,0,0,0,0,0,1,0,1,0,0,0,0,0,0,0,0,0,0,0,0,1,0,0,0,0,0,0,0,0,0,0,0,0,0,0,0,0,0,0,0,0,0,0,0,0,0,0,0,0,1,0,0,1,0,0,0,0,1,0,0,0,1,1,1,0,1,1,0,0,0,0,0,0,1,2,0,0,0,0,0,0,0,0,0,0,0,0,0,0,0,1,0,0,0,0,0,0,0,0,0,0,0,0,0,0,0,0,1,1,0,0,0,0,0,0,0,0,0,1,0,0,0,0,0,0,0,0,0,0,0,0,0,0,0,0,0,0,1,0,0,0,1,0,0,0,0,0,0,0,0,0,0,0,0,0,0,0,0,0,0,0,1,0,0,0,0,0,0,0,0,0,0,0,0,0,0,0,0,0,0,0,0,0,0,0,0,0,0,0,1,1,0,1,0,2,1,3,0,0],[0,0,0,0,2,1,0,0,0,0,0,0,0,0,0,0,0,1,0,0,0,1,0,0,0,0,0,0,0,0,1,0,0,0,0,0,0,0,0,0,0,0,0,0,0,0,0,0,0,0,0,0,1,0,0,0,0,0,0,0,0,0,0,0,0,0,0,0,0,0,0,0,0,0,0,0,0,0,0,0,0,0,0,0,0,0,0,0,0,0,0,0,0,0,0,0,0,0,0,0,0,0,0,0,0,0,0,0,0,0,0,0,0,0,0,1,0,0,0,0,0,0,0,0,0,0,0,0,0,0,0,0,0,0,0,0,0,0,0,1,0,0,0,0,1,0,0,0,0,0,0,0,0,0,0,0,0,0,0,0,0,0,0,0,0,0,0,0,0,0,0,0,0,0,0,0,0,0,0,0,0,0,0,1,0,0,0,0,0,0,0,0,0,0,0,1,0,0,0,0,0,0,0,0,0,0,0,0,0,2,0,0,0,0,0,0,0,0,0,0,0,0,0,0,0,0,0,0,0,0,0,0,0,0,0,0,0,0,0,0,0,0,0,0,0,0,0,0,0,0,1,0,0,0,0,0,0,0,0,0,0,0,0,1,0,0,0,0,0,0,0,0,0,0,0,0,1,0,0,0,0,1,0,1,0,0,0,0,0,0],[0,0,0,0,0,0,0,0,0,0,0,0,0,0,0,0,0,0,0,0,0,0,0,0,0,0,0,0,0,0,0,0,0,0,0,0,0,0,0,0,0,0,0,0,0,0,0,1,0,0,0,0,0,0,0,0,0,0,1,0,0,0,0,0,0,0,0,0,0,0,0,0,0,0,1,0,0,0,0,0,0,0,0,0,0,0,0,0,0,0,1,0,0,0,0,0,0,0,0,0,0,0,0,0,0,0,0,0,0,0,0,0,0,0,0,0,0,0,0,1,0,0,0,1,0,0,0,0,0,0,0,0,0,0,0,0,0,0,0,0,0,0,0,0,0,0,0,0,0,0,0,0,0,0,0,0,0,0,0,0,0,0,0,0,0,0,0,0,0,0,0,0,0,0,0,0,0,0,0,0,0,0,0,0,0,0,0,0,0,0,0,0,0,0,0,1,0,0,0,1,0,0,1,1,0,0,0,0,0,0,1,0,0,0,0,0,0,0,0,0,0,0,0,0,0,0,0,1,0,0,0,0,0,0,0,0,0,0,0,0,0,0,0,0,0,0,0,0,0,0,0,0,0,0,0,0,0,0,0,0,0,0,0,0,0,0,0,0,0,0,0,0,0,0,0,0,0,0,0,0,0,0,0,0,0,0,0,0,0,0],[0,0,0,0,0,0,0,0,0,0,0,0,0,0,0,0,0,1,0,0,0,0,1,0,0,0,0,0,0,0,0,1,0,0,0,0,0,0,2,0,0,0,0,0,0,0,0,0,0,0,0,0,0,0,0,0,0,0,0,0,0,0,0,0,0,0,0,0,0,0,0,0,0,0,0,0,0,0,0,0,0,2,0,0,0,1,0,1,0,0,0,0,0,1,0,0,0,0,0,0,0,0,0,0,0,0,0,0,1,0,0,0,1,0,1,0,0,0,0,0,0,0,0,0,0,0,0,0,1,0,0,0,0,0,0,0,0,0,0,0,0,0,0,0,0,1,0,0,0,0,0,0,0,0,0,0,0,0,0,1,0,0,0,0,0,0,0,0,0,0,0,0,0,0,0,0,0,0,0,0,0,0,0,0,0,0,0,0,0,0,0,0,0,0,0,0,0,0,0,0,0,1,0,0,0,0,0,0,0,0,0,0,0,0,0,0,0,0,0,0,0,0,0,0,0,0,0,0,0,0,0,0,0,0,0,0,0,0,0,0,0,0,0,0,0,0,0,0,0,0,0,0,0,0,0,0,0,0,0,0,0,0,0,0,0,0,0,0,0,0,1,0,0,0,0,0,0,0,0,0,0,0,0,1,0,0,0,0,0,0],[0,0,0,0,0,0,0,0,0,0,1,1,0,0,0,2,0,2,0,1,0,0,0,1,1,1,1,0,0,0,0,0,0,1,1,0,0,1,0,0,0,0,1,1,1,0,0,0,0,0,1,0,0,0,0,0,1,0,0,0,0,0,0,0,0,0,0,0,0,1,0,0,0,0,0,0,0,0,0,0,0,1,0,0,0,0,0,0,0,0,0,0,0,0,1,0,0,0,0,0,1,0,0,0,1,0,0,0,0,0,0,0,0,0,0,0,0,0,0,0,0,0,0,1,0,0,0,0,0,0,0,0,0,1,0,0,0,0,0,0,0,0,0,0,0,0,1,0,0,2,1,0,0,0,0,0,0,0,0,0,0,0,0,0,0,0,0,0,0,0,0,0,0,0,0,0,0,0,0,0,0,0,1,0,0,0,1,0,0,0,0,0,0,0,1,1,0,0,0,0,0,1,0,0,0,0,1,1,0,0,0,0,0,1,0,0,1,0,0,0,0,0,1,0,0,0,0,0,0,0,0,0,0,0,0,0,0,0,0,0,0,0,0,0,0,0,0,0,0,0,0,1,0,0,0,0,0,0,0,0,0,0,0,0,0,0,0,0,0,0,0,1,1,0,1,1,0,1,1,1,0,0,0,0,1,0,0,0,1,0],[0,0,0,0,0,0,0,0,0,0,0,0,0,0,0,0,0,0,0,0,0,0,0,0,0,0,0,0,0,0,0,0,0,0,0,0,0,0,0,0,0,0,0,0,0,0,0,0,1,0,0,0,0,0,0,0,0,0,0,0,0,0,0,0,0,0,0,0,0,0,0,0,0,0,0,0,0,0,0,0,0,0,0,0,0,0,0,0,0,0,0,0,0,0,0,0,0,0,0,0,0,0,0,0,0,0,0,0,0,0,0,0,0,0,0,0,0,0,0,0,0,0,0,0,0,0,0,0,0,0,0,0,0,0,0,0,0,0,0,0,0,0,0,0,0,0,0,0,0,0,0,0,0,0,0,0,0,0,0,0,0,0,0,0,0,0,0,0,0,0,0,0,0,0,0,0,0,0,0,0,0,0,0,1,0,0,0,0,0,0,0,0,0,0,0,0,0,0,0,0,0,0,0,0,0,0,0,0,0,0,0,0,0,0,0,0,0,0,0,0,0,0,0,0,0,1,0,0,0,1,0,0,0,0,0,0,0,0,0,0,0,0,0,0,0,0,0,1,0,0,0,0,0,0,0,0,0,0,0,0,0,0,0,0,0,0,0,0,0,0,0,0,0,0,0,0,0,1,0,0,0,0,0,0,0,0,0,0,0,1]]},"evals":[],"jsHooks":[]}</script></div>
 </div>
   </div>
 

diff --git a/docs/articles/twitter.html b/docs/articles/twitter.html
@@ -67,8 +67,8 @@
 <div class="sourceCode"><pre class="sourceCode r"><code class="sourceCode r">the_query &lt;-<span class="st"> "#ESCAIDE2016 OR #ESCAIDE OR @ESCAIDE"</span></code></pre></div>
 <div class="sourceCode"><pre class="sourceCode r"><code class="sourceCode r">tweets &lt;-<span class="st"> </span><span class="kw">search_tweets</span>(the_query, <span class="dt">n =</span> <span class="dv">15000</span>, <span class="dt">type=</span><span class="st">"recent"</span>, <span class="dt">token =</span> twitter_token)</code></pre></div>
 <div class="sourceCode"><pre class="sourceCode r"><code class="sourceCode r">DT::<span class="kw">datatable</span>(<span class="kw">head</span>(tweets))</code></pre></div>
-<div id="htmlwidget-ae7fa4a918c3c5fdf863" style="width:100%;height:auto;" class="datatables html-widget"></div>
-<script type="application/json" data-for="htmlwidget-ae7fa4a918c3c5fdf863">{"x":{"filter":"none","data":[["1","2","3","4","5","6"],["2016-11-30T16:35:02Z","2016-11-30T16:27:42Z","2016-11-30T16:27:29Z","2016-11-30T16:27:24Z","2016-11-30T16:27:18Z","2016-11-30T16:27:10Z"],[8.04000796190851e+17,8.03998953415082e+17,8.03998898079547e+17,8.03998875266716e+17,8.03998851531149e+17,8.03998818656252e+17],[2,1,3,1,1,2],[0,0,0,0,0,0],["RT @ESCAIDE: Aerial sprays to stop #Zika at beach in #Miami art district - presented by Lyle R Petersen @CDCgov #ESCAIDE2016 https://t.co/x","RT @ESCAIDE: ECDC vision: EU-wide use of WGS as the typing method of choice in five years time for all pathogens https://t.co/NXN0X7KHEG #","RT @ESCAIDE: WGS will improve accuracy and effectiveness of disease surveillance and outbreak investigation https://t.co/NXN0X7KHEG #ESCAID","RT @ESCAIDE: Last moderated poster sessions at #ESCAIDE2016 https://t.co/h6uOidMuP5","RT @ESCAIDE: #hepatitis E surveillance 2005-2015: systems and numbers reported in EU/EEA countries, poster by C. Adlhoch in #ESCAIDE2016 ht","RT @ESCAIDE: Aerial sprays to stop #Zika at beach in #Miami art district - presented by Lyle R Petersen @CDCgov #ESCAIDE2016 https://t.co/x"],[null,null,null,null,null,null],[null,null,null,null,null,null],[null,null,null,null,null,null],[false,false,false,false,false,false],[null,null,null,null,null,null],["Twitter for iPhone","Twitter for iPhone","Twitter for iPhone","Twitter for iPhone","Twitter for iPhone","Twitter for iPhone"],["en","en","en","en","en","en"],[35465163,1608295104,1608295104,1608295104,1608295104,1608295104],["ppenttin","mika_salminen","mika_salminen","mika_salminen","mika_salminen","mika_salminen"],[[2974549409,146569971],2974549409,2974549409,2974549409,2974549409,[2974549409,146569971]],[["ESCAIDE","CDCgov"],"ESCAIDE","ESCAIDE","ESCAIDE","ESCAIDE",["ESCAIDE","CDCgov"]],[["Zika","Miami","ESCAIDE2016"],null,null,"ESCAIDE2016",["hepatitis","ESCAIDE2016"],["Zika","Miami","ESCAIDE2016"]],[null,"http://bit.ly/2bzTtdM","http://bit.ly/2bzTtdM",null,null,null],[true,true,true,true,true,true],["803997571467407360","803959371764011008","803968441535385601","803973927529746432","803990442559832064","803997571467407360"],[null,null,null,null,null,null],[null,null,null,null,null,null],[[[null,null,null,null,null,null,null,null]],[[null,null,null,null,null,null,null,null]],[[null,null,null,null,null,null,null,null]],[[null,null,null,null,null,null,null,null]],[[null,null,null,null,null,null,null,null]],[[null,null,null,null,null,null,null,null]]]],"container":"<table class=\"display\">\n  <thead>\n    <tr>\n      <th> \u003c/th>\n      <th>created_at\u003c/th>\n      <th>status_id\u003c/th>\n      <th>retweet_count\u003c/th>\n      <th>favorite_count\u003c/th>\n      <th>text\u003c/th>\n      <th>in_reply_to_status_id\u003c/th>\n      <th>in_reply_to_user_id\u003c/th>\n      <th>in_reply_to_screen_name\u003c/th>\n      <th>is_quote_status\u003c/th>\n      <th>quoted_status_id\u003c/th>\n      <th>source\u003c/th>\n      <th>lang\u003c/th>\n      <th>user_id\u003c/th>\n      <th>screen_name\u003c/th>\n      <th>mentions_user_id\u003c/th>\n      <th>mentions_screen_name\u003c/th>\n      <th>hashtags\u003c/th>\n      <th>urls\u003c/th>\n      <th>is_retweet\u003c/th>\n      <th>retweet_status_id\u003c/th>\n      <th>place_name\u003c/th>\n      <th>country\u003c/th>\n      <th>coordinates\u003c/th>\n    \u003c/tr>\n  \u003c/thead>\n\u003c/table>","options":{"columnDefs":[{"className":"dt-right","targets":[2,3,4,6,7,10,13]},{"orderable":false,"targets":0}],"order":[],"autoWidth":false,"orderClasses":false}},"evals":[],"jsHooks":[]}</script><p>A total of 866 tweets were collected.</p>
+<div id="htmlwidget-db9140ebde3f67c51e31" style="width:100%;height:auto;" class="datatables html-widget"></div>
+<script type="application/json" data-for="htmlwidget-db9140ebde3f67c51e31">{"x":{"filter":"none","data":[["1","2","3","4","5","6"],["2016-11-30T16:35:02Z","2016-11-30T16:27:42Z","2016-11-30T16:27:29Z","2016-11-30T16:27:24Z","2016-11-30T16:27:18Z","2016-11-30T16:27:10Z"],[8.04000796190851e+17,8.03998953415082e+17,8.03998898079547e+17,8.03998875266716e+17,8.03998851531149e+17,8.03998818656252e+17],[2,1,3,1,1,2],[0,0,0,0,0,0],["RT @ESCAIDE: Aerial sprays to stop #Zika at beach in #Miami art district - presented by Lyle R Petersen @CDCgov #ESCAIDE2016 https://t.co/x","RT @ESCAIDE: ECDC vision: EU-wide use of WGS as the typing method of choice in five years time for all pathogens https://t.co/NXN0X7KHEG #","RT @ESCAIDE: WGS will improve accuracy and effectiveness of disease surveillance and outbreak investigation https://t.co/NXN0X7KHEG #ESCAID","RT @ESCAIDE: Last moderated poster sessions at #ESCAIDE2016 https://t.co/h6uOidMuP5","RT @ESCAIDE: #hepatitis E surveillance 2005-2015: systems and numbers reported in EU/EEA countries, poster by C. Adlhoch in #ESCAIDE2016 ht","RT @ESCAIDE: Aerial sprays to stop #Zika at beach in #Miami art district - presented by Lyle R Petersen @CDCgov #ESCAIDE2016 https://t.co/x"],[null,null,null,null,null,null],[null,null,null,null,null,null],[null,null,null,null,null,null],[false,false,false,false,false,false],[null,null,null,null,null,null],["Twitter for iPhone","Twitter for iPhone","Twitter for iPhone","Twitter for iPhone","Twitter for iPhone","Twitter for iPhone"],["en","en","en","en","en","en"],[35465163,1608295104,1608295104,1608295104,1608295104,1608295104],["ppenttin","mika_salminen","mika_salminen","mika_salminen","mika_salminen","mika_salminen"],[[2974549409,146569971],2974549409,2974549409,2974549409,2974549409,[2974549409,146569971]],[["ESCAIDE","CDCgov"],"ESCAIDE","ESCAIDE","ESCAIDE","ESCAIDE",["ESCAIDE","CDCgov"]],[["Zika","Miami","ESCAIDE2016"],null,null,"ESCAIDE2016",["hepatitis","ESCAIDE2016"],["Zika","Miami","ESCAIDE2016"]],[null,"http://bit.ly/2bzTtdM","http://bit.ly/2bzTtdM",null,null,null],[true,true,true,true,true,true],["803997571467407360","803959371764011008","803968441535385601","803973927529746432","803990442559832064","803997571467407360"],[null,null,null,null,null,null],[null,null,null,null,null,null],[[[null,null,null,null,null,null,null,null]],[[null,null,null,null,null,null,null,null]],[[null,null,null,null,null,null,null,null]],[[null,null,null,null,null,null,null,null]],[[null,null,null,null,null,null,null,null]],[[null,null,null,null,null,null,null,null]]]],"container":"<table class=\"display\">\n  <thead>\n    <tr>\n      <th> \u003c/th>\n      <th>created_at\u003c/th>\n      <th>status_id\u003c/th>\n      <th>retweet_count\u003c/th>\n      <th>favorite_count\u003c/th>\n      <th>text\u003c/th>\n      <th>in_reply_to_status_id\u003c/th>\n      <th>in_reply_to_user_id\u003c/th>\n      <th>in_reply_to_screen_name\u003c/th>\n      <th>is_quote_status\u003c/th>\n      <th>quoted_status_id\u003c/th>\n      <th>source\u003c/th>\n      <th>lang\u003c/th>\n      <th>user_id\u003c/th>\n      <th>screen_name\u003c/th>\n      <th>mentions_user_id\u003c/th>\n      <th>mentions_screen_name\u003c/th>\n      <th>hashtags\u003c/th>\n      <th>urls\u003c/th>\n      <th>is_retweet\u003c/th>\n      <th>retweet_status_id\u003c/th>\n      <th>place_name\u003c/th>\n      <th>country\u003c/th>\n      <th>coordinates\u003c/th>\n    \u003c/tr>\n  \u003c/thead>\n\u003c/table>","options":{"columnDefs":[{"className":"dt-right","targets":[2,3,4,6,7,10,13]},{"orderable":false,"targets":0}],"order":[],"autoWidth":false,"orderClasses":false}},"evals":[],"jsHooks":[]}</script><p>A total of 866 tweets were collected.</p>
 <div id="descriptive-analysis" class="section level3">
 <h3 class="hasAnchor"><html><body><a href="#descriptive-analysis" class="anchor"> </a></body></html>Descriptive Analysis</h3>
 <p>Who&rsquo;s tweeting? The tweets originate from a total of 225 users. The top 25 users (by their number of tweets) are:</p>
@@ -175,18 +175,20 @@ monitored_tweets &lt;-<span class="st"> </span><span class="kw">earsC</span>(twe
 monitored_tweets_df &lt;-<span class="st"> </span><span class="kw">as.data.frame</span>(monitored_tweets)
 
 monitored_tweets_df &lt;-<span class="st"> </span><span class="kw">mutate</span>(monitored_tweets_df,
-                          <span class="dt">time =</span> ts2$time[(baseline +<span class="st"> </span><span class="dv">1</span>):
-<span class="st">                                           </span><span class="kw">nrow</span>(ts2) -<span class="st"> </span><span class="dv">1</span>])
-<span class="kw">ggplot</span>(monitored_tweets_df) +
-<span class="st">  </span><span class="kw">geom_bar</span>(<span class="kw">aes</span>(time, observed, <span class="dt">fill =</span> alarm), <span class="dt">stat =</span> <span class="st">"identity"</span>) +
+                          <span class="dt">time =</span> ts2$time[(baseline +<span class="st"> </span><span class="dv">1</span>):(<span class="kw">nrow</span>(ts2))])
+<span class="kw">ggplot</span>(ts3) +
+<span class="st">  </span><span class="kw">geom_bar</span>(<span class="kw">aes</span>(time, n, <span class="dt">fill =</span> group), <span class="dt">stat =</span> <span class="st">"identity"</span>) +
 <span class="st">  </span>viridis::<span class="kw">scale_fill_viridis</span>(<span class="dt">discrete =</span> <span class="ot">TRUE</span>, <span class="dt">name =</span> <span class="st">"Alarm:"</span>) +
-<span class="st">  </span><span class="kw">geom_step</span>(<span class="kw">aes</span>(time, upperbound)) +
+<span class="st">  </span><span class="kw">geom_step</span>(<span class="dt">data =</span> monitored_tweets_df, <span class="kw">aes</span>(time, upperbound)) +
 <span class="st">  </span><span class="kw">theme</span>(<span class="dt">legend.position =</span> <span class="st">"bottom"</span>) +
 <span class="st">  </span><span class="kw">theme</span>(<span class="dt">axis.text.x=</span><span class="kw">element_text</span>(<span class="dt">angle=</span><span class="dv">90</span>, <span class="dt">hjust=</span><span class="dv">1</span>)) +
 <span class="st">  </span><span class="kw">ylab</span>(<span class="st">"No. of tweets"</span>) +
 <span class="st">  </span><span class="kw">xlab</span>(<span class="st">"Time"</span>) +<span class="st"> </span><span class="kw">ggtitle</span>(the_query) +
 <span class="st">  </span><span class="kw">scale_x_datetime</span>(<span class="dt">date_minor_breaks=</span><span class="st">"1 hour"</span>,<span class="dt">date_breaks=</span><span class="st">"1 hour"</span>,<span class="dt">date_labels=</span><span class="st">"Nov %d-%H:00"</span>) +
-<span class="st">  </span><span class="kw">theme</span>(<span class="dt">axis.text.x =</span> <span class="kw">element_text</span>(<span class="dt">angle =</span> <span class="dv">60</span>, <span class="dt">size =</span> <span class="dv">6</span>))</code></pre></div>
+<span class="st">  </span><span class="kw">theme</span>(<span class="dt">axis.text.x =</span> <span class="kw">element_text</span>(<span class="dt">angle =</span> <span class="dv">60</span>, <span class="dt">size =</span> <span class="dv">6</span>)) +<span class="st"> </span>
+<span class="st">  </span><span class="kw">geom_point</span>(<span class="dt">data =</span> <span class="kw">filter</span>(monitored_tweets_df, alarm), <span class="kw">aes</span>(<span class="dt">x =</span> time), <span class="dt">y =</span> <span class="dv">0</span>, <span class="dt">color =</span> <span class="st">"red"</span>) +
+<span class="st">  </span>viridis::<span class="kw">scale_fill_viridis</span>(<span class="dt">discrete =</span> <span class="ot">TRUE</span>, <span class="dt">name=</span><span class="st">"Tweet Type"</span>, <span class="dt">label =</span> <span class="kw">c</span>(<span class="st">"Standard tweet"</span>, 
+                                                                            <span class="st">"Our outbreak tweet/retweet"</span>))</code></pre></div>
 <p><img src="twitter_files/figure-html/ears-1.png" width="672" style="display: block; margin: auto;"></p>
 <div id="instant-citizen-science-experiment" class="section level3">
 <h3 class="hasAnchor"><html><body><a href="#instant-citizen-science-experiment" class="anchor"> </a></body></html>Instant citizen science experiment</h3>
